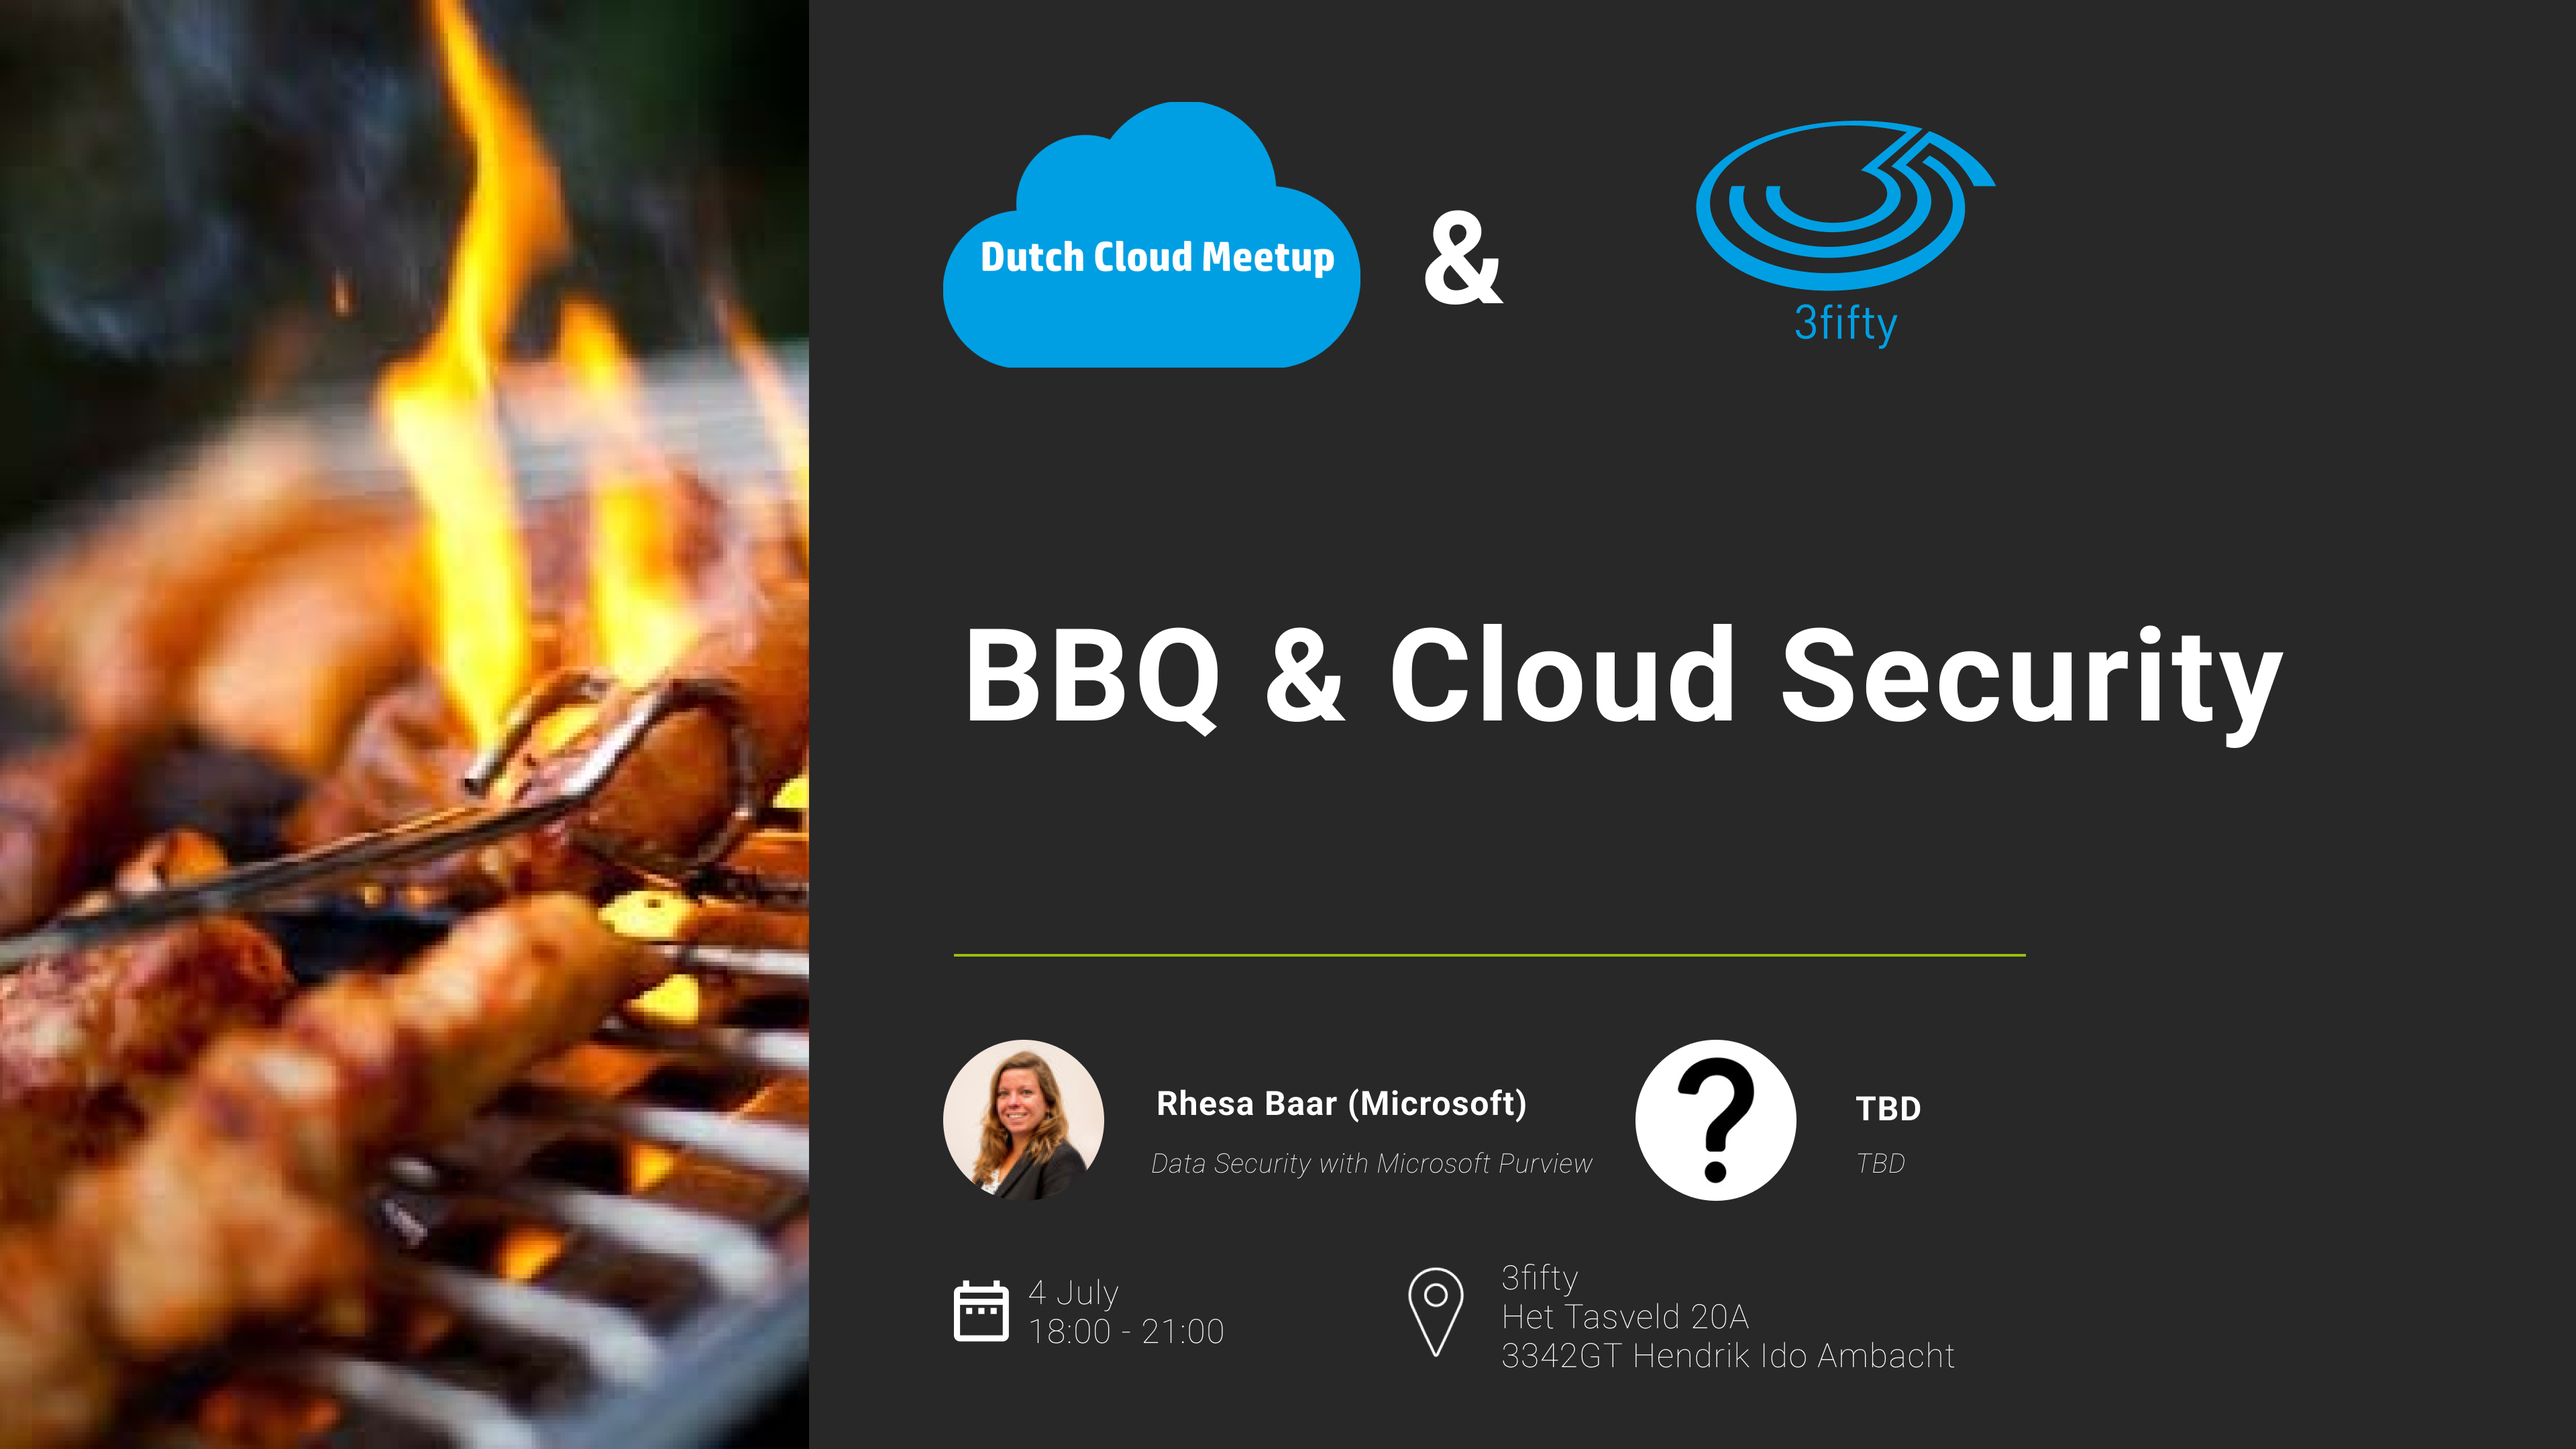
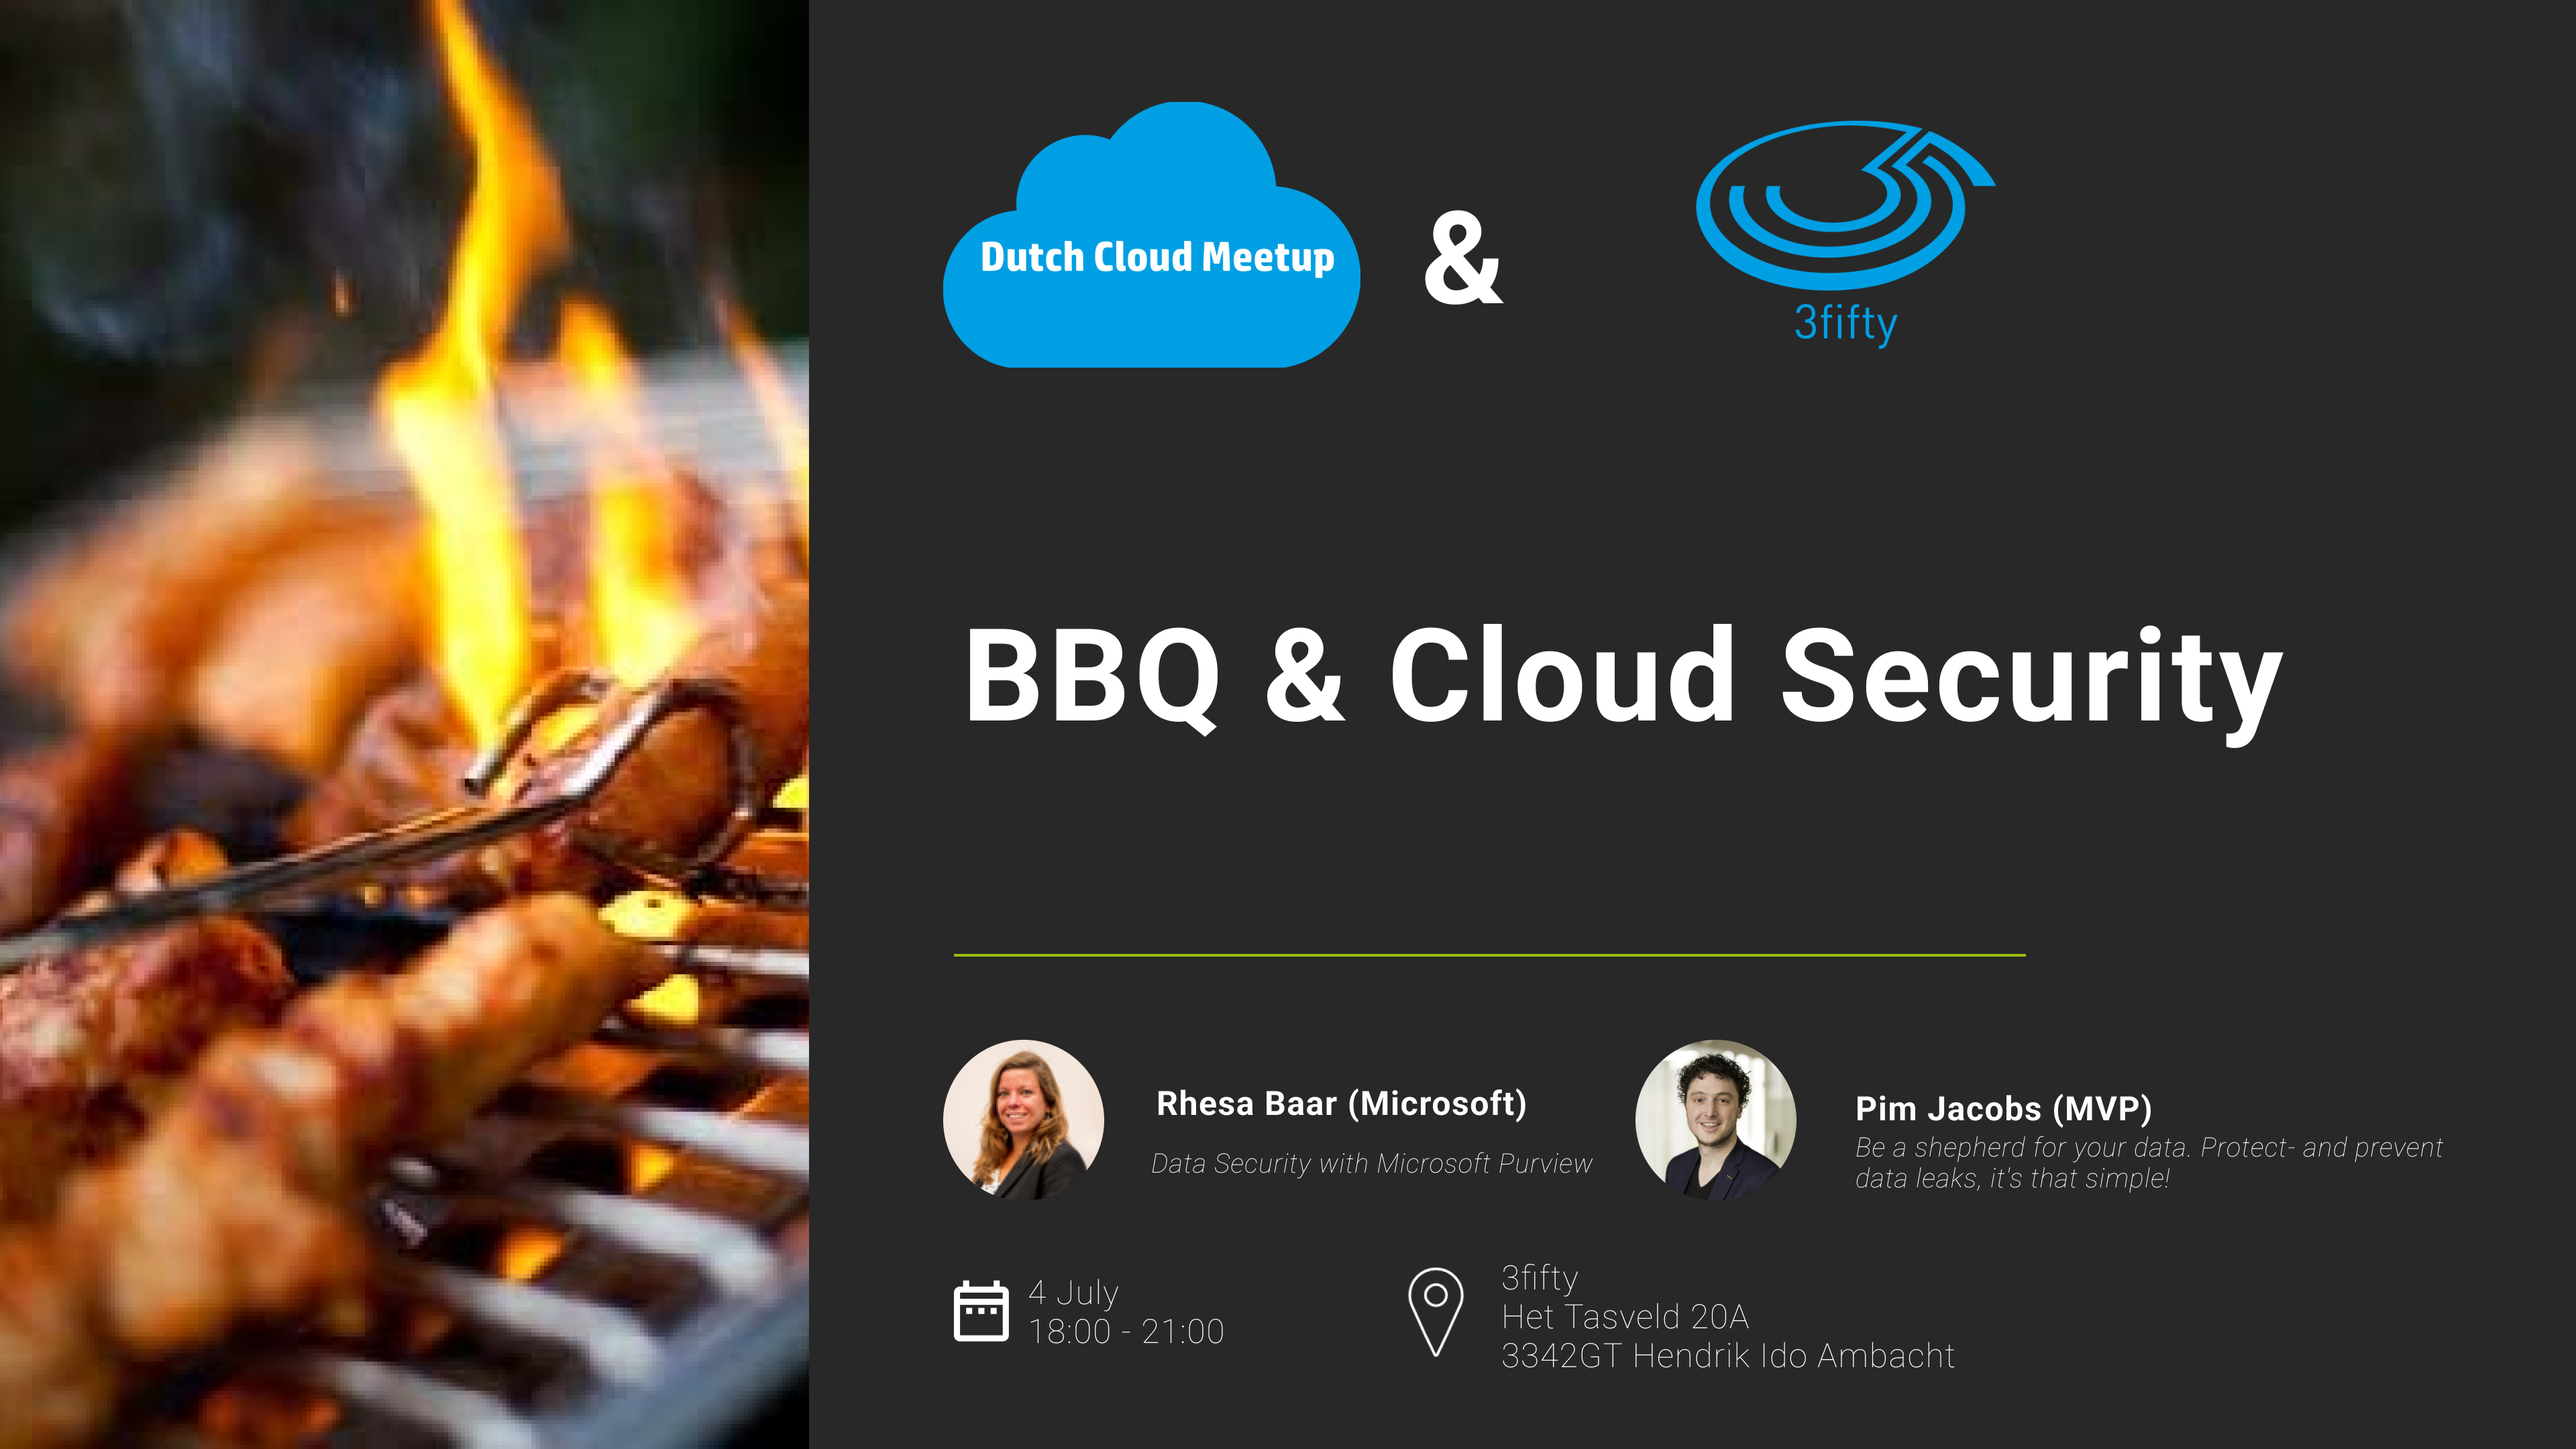
added new speaker + img

Changed region(s): [[0.625, 0.7134, 0.8438, 0.8375]]

diff --git a/website/content/events/20230704.md b/website/content/events/20230704.md
@@ -1,7 +1,7 @@
 +++
 title = "BBQ & Cloud Security"
 date = "2023-07-04T18:00:00+02:00"
-tags = ["Security", "Identity", "Purview"]
+tags = ["Security", "Identity", "Purview", "Data", "Defender for Cloud"]
 categories = ["Azure", "In-Person"]
 banner = "img/events/20230704.jpg"
 authors = ["Maik van der Gaag"]
@@ -21,8 +21,7 @@ As a special ending for this season 3fifty will organize a BBQ for all people at
 
 **18:50 - 19:35 :** 1st Session - Rhesa Baar (Microsoft): Data Security with Microsoft Purview
 
-
-**19:45 - 20:30 :** 2nd Session - TBD
+**19:45 - 20:30 :** 2nd Session - Pim Jacobs (MVP): Be a shepherd for your data. Protect- and prevent data leaks, it's that simple!
 
 ---
 
@@ -34,6 +33,18 @@ I really enjoy to work on multidisciplinary challenges where people and technolo
 **Session: Data Security with Microsoft Purview**
 
 This talk will showcase how you can utilize the Microsoft Purview portfolio to protect data wherever it resides so that you can protect Intellectual Property as well as Privacy Sensitive data
+
+---
+
+**Pim Jacobs**
+
+Pim is an expert in Microsoft (hybrid) Identity & Messaging (Exchange) products and has earned the Microsoft MVP title for Enterprise Mobility & Security. He has done various designs and implementations for customers hosting over 10.000 users with, when necessary, a fully redundant configuration. Next to Identity & Messaging Pim has a lot of experience with the latest Microsoft products such as: Microsoft Endpoint Manager, Office 365 and Windows 10 / 11
+
+Pim is pragmatic in his approach and he listens to the requirements of customers which he translates from a functional to a technical perspective. Pim has good communication skills and able to turn complexity into simplicity. He combines keen technical expertise with a pleasant, open attitude, allowing him to build friendly relationships with colleagues and customers.
+
+**Session: Be a shepherd for your data. Protect- and prevent data leaks, it's that simple!**
+
+In a digitizing society more and more data is becoming available within the Microsoft 365 cloud today. Although we require devices to be compliant to synchronize data, users and guests are still able to download or copy data via the browser to unmanaged devices which is resulting in data leaks. During this session you'll learn how you can successfully prevent these scenarios with the use of Defender for Cloud Apps and make sure your data is protected against 'accidental' data leaks. We will show you how to configure Defender for Cloud Apps, what options are available to you and will 'leak' some live demos. After this session you'll have a clear understanding for which scenarios you're able to use Defender for Cloud Apps and how to configure this in your own environment.
 
 ---
 
